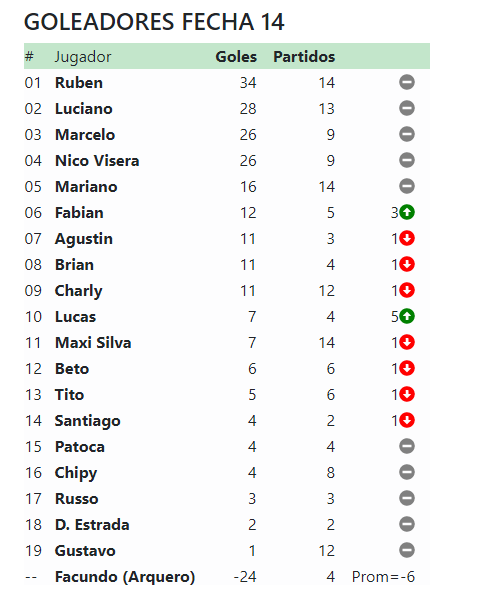
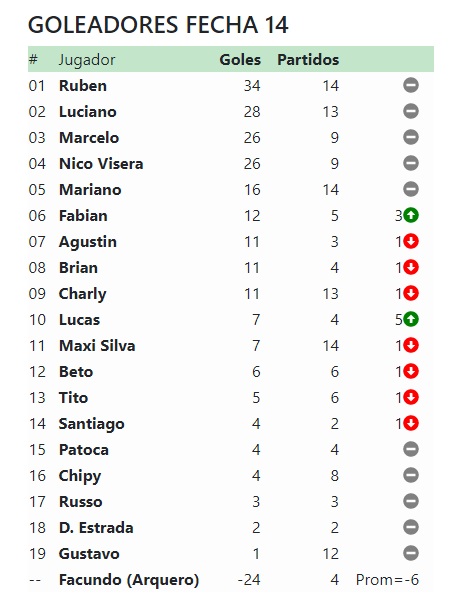
Fecha 14

diff --git a/Goleadores/Goleadores Fecha 14.htm b/Goleadores/Goleadores Fecha 14.htm
@@ -100,7 +100,7 @@
 		<td>09</td>	  
 		<th scope="row">Charly</th>
 		<td class="flotante">11</td>
-		<td class="flotante">12</td>
+		<td class="flotante">13</td>
 		<td class="flotante"> 1<i class="fas fa-arrow-alt-circle-down" style='color:red'></i></td>
 	</tr>
 	<tr class="table-light">
